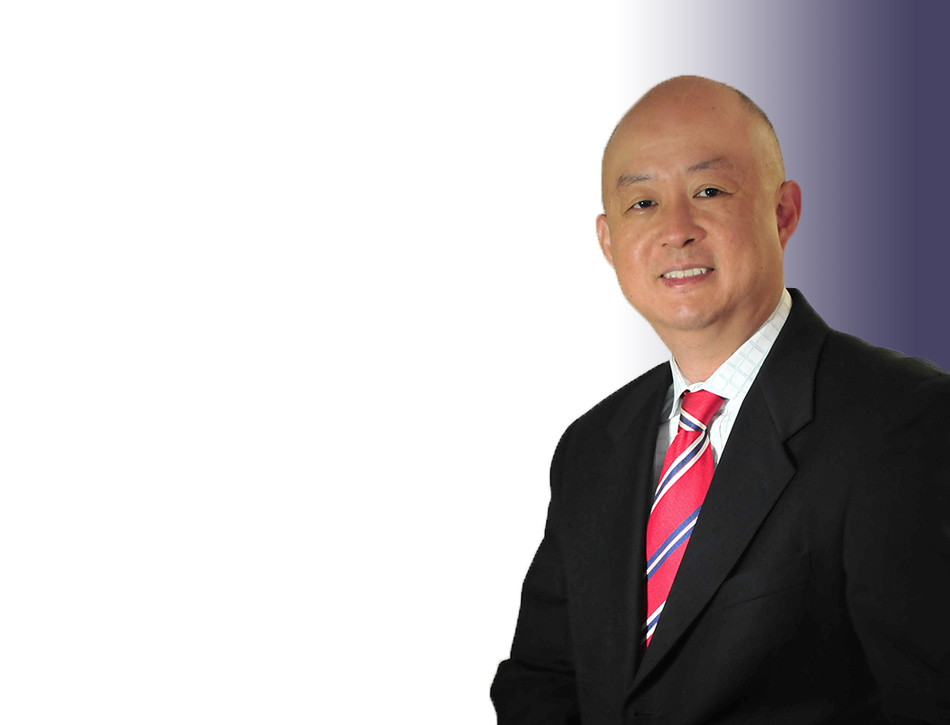
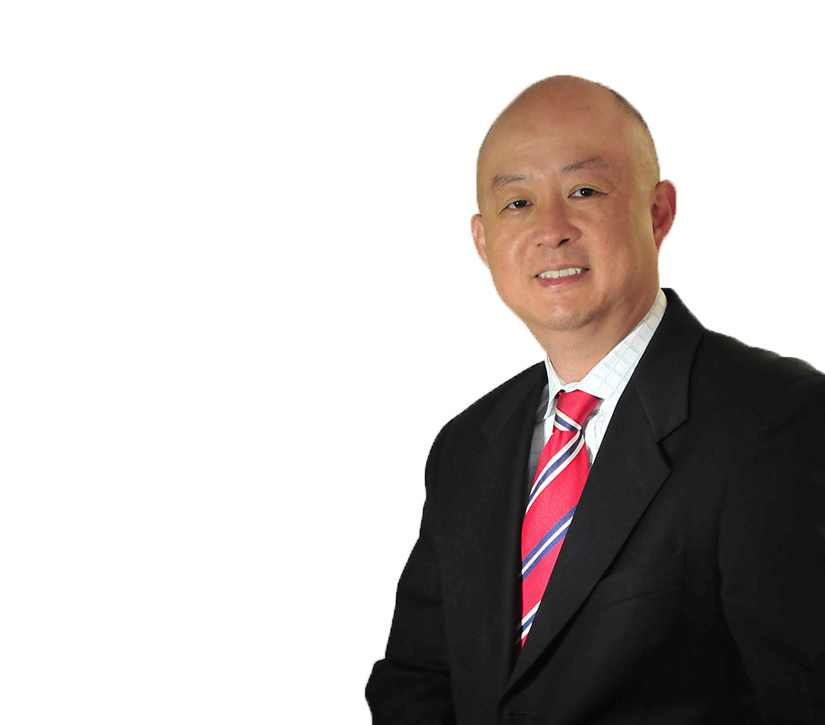
jumbotron populated

Changed region(s): [[0.4242, 0.0, 1.0, 1.0], [0.697, 0.88, 0.7273, 0.9103]]

diff --git a/src/components/Services.js b/src/components/Services.js
@@ -4,38 +4,54 @@ const Services = () => {
 	return (
 		<div className="container">
 			<h2>Services</h2>
-			<p>
-				Abraham Lim specializes and handles cases which involves US
-				Immigration law. This includes:
-			</p>
+			<div className="row">
+				<div className="col-md-6">
+					<p>
+						Abraham Lim specializes and handles cases which involves
+						US Immigration law. This includes:
+					</p>
 
-			<ul className="list-group services">
-				<li className="list-group-item">EB -5 INVESTMENT VISA</li>
-				<li className="list-group-item">EB-2 PERM</li>
-				<li className="list-group-item">LABOR CERTIFICATIONS</li>
-				<li className="list-group-item">E1/E2 VISA</li>
-				<li className="list-group-item">
-					O-1 EXTRAORDINARY ABILITY ALIENS
-				</li>
-				<li className="list-group-item">P ARTIST VISA</li>
-				<li className="list-group-item">Q VISITOR VISA</li>
-				<li className="list-group-item">L1 VISA</li>
-				<li className="list-group-item">H-1B VISA</li>
-				<li className="list-group-item">TN VISA</li>
-				<li className="list-group-item">MARRIAGE & FAMILY CASES</li>
-				<li className="list-group-item">BATTERED SPOUSE CASES</li>
-				<li className="list-group-item">DEPORTATION DEFENSE</li>
-				<li className="list-group-item">CRIMINAL DEPORTATION</li>
-				<li className="list-group-item">
-					IMMIGRATION WORKSITE COMPLIANCE
-				</li>
-			</ul>
+					<ul className="list-group services">
+						<li className="list-group-item">
+							EB -5 INVESTMENT VISA
+						</li>
+						<li className="list-group-item">EB-2 PERM</li>
+						<li className="list-group-item">
+							LABOR CERTIFICATIONS
+						</li>
+						<li className="list-group-item">E1/E2 VISA</li>
+						<li className="list-group-item">
+							O-1 EXTRAORDINARY ABILITY ALIENS
+						</li>
+						<li className="list-group-item">P ARTIST VISA</li>
+						<li className="list-group-item">Q VISITOR VISA</li>
+						<li className="list-group-item">L1 VISA</li>
+						<li className="list-group-item">H-1B VISA</li>
+						<li className="list-group-item">TN VISA</li>
+						<li className="list-group-item">
+							MARRIAGE & FAMILY CASES
+						</li>
+						<li className="list-group-item">
+							BATTERED SPOUSE CASES
+						</li>
+						<li className="list-group-item">DEPORTATION DEFENSE</li>
+						<li className="list-group-item">
+							CRIMINAL DEPORTATION
+						</li>
+						<li className="list-group-item">
+							IMMIGRATION WORKSITE COMPLIANCE
+						</li>
+					</ul>
+				</div>
 
-			<p>Abraham Lim also practices:</p>
-			<ul className="list-group services">
-				<li className="list-group-item">crisis management</li>
-				<li className="list-group-item">corporate</li>
-			</ul>
+				<div className="col-md-6">
+					<p>Abraham Lim also practices:</p>
+					<ul className="list-group services">
+						<li className="list-group-item">crisis management</li>
+						<li className="list-group-item">corporate</li>
+					</ul>
+				</div>
+			</div>
 		</div>
 	);
 };

diff --git a/src/components/Jumbotron.js b/src/components/Jumbotron.js
@@ -1,14 +1,13 @@
 import React from "react";
+import Abu from "./../assets/img/abuMain.jpg";
 
 const Jumbotron = () => {
 	return (
 		<div className="jumbotron jumbotron-fluid">
-			<div className="container">
-				<h1 className="display-4">Fluid jumbotron</h1>
-
-				<div className="row">
-					<div className="col-12 col-lg-6">
-						<p className="pageContent">
+			<div className="row">
+				<div className="col-12 col-lg-6">
+					<div className="pageContent">
+						<p>
 							Atty. Abraham L. Lim practices in the fields of US
 							immigration law, crisis management, and corporate
 							law.
@@ -38,7 +37,9 @@ const Jumbotron = () => {
 							Southern California Chinese Lawyer's Association.
 						</p>
 					</div>
-					<div className="col-12 col-lg-6">Placeholder for IMG</div>
+				</div>
+				<div className="col-12 col-lg-6">
+					<img src={Abu} className="hero-image" />
 				</div>
 			</div>
 		</div>

diff --git a/src/styles/base/mediaQuery.scss b/src/styles/base/mediaQuery.scss
@@ -5,6 +5,18 @@
 
 // Medium devices (tablets, 768px and up)
 @media (min-width: 768px) {
+	.jumbotron {
+		& .pageContent {
+			& p {
+				font-size: 1.6rem;
+			}
+		}
+
+		& .hero-image {
+			width: 100%;
+			height: 100%;
+		}
+	}
 }
 
 // Large devices (desktops, 992px and up)
@@ -12,6 +24,14 @@
 	.navbar-nav {
 		& .nav-item {
 			margin: 0 1rem;
+		}
+	}
+
+	.jumbotron {
+		& .pageContent {
+			& p {
+				font-size: 1.8rem;
+			}
 		}
 	}
 }

diff --git a/src/styles/base/App.scss b/src/styles/base/App.scss
@@ -63,7 +63,20 @@ a:hover {
 }
 
 .jumbotron {
-  min-height: 75vh;
+  min-height: 25vh;
+  padding: 0;
+  margin: 1rem 0;
+  background-color: #fff;
+
+  & .pageContent {
+    margin: 2rem;
+  }
+
+  & .hero-image {
+    width: 100%;
+    height: 100%;
+    object-fit: contain;
+  }
 }
 
 /*SERVICES*/
